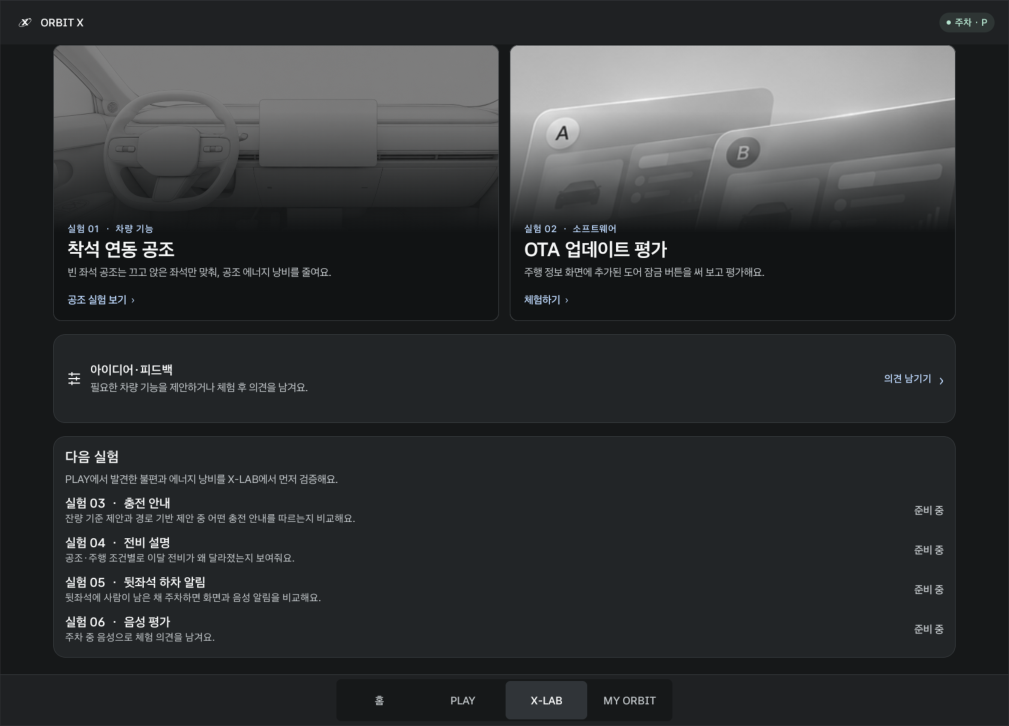
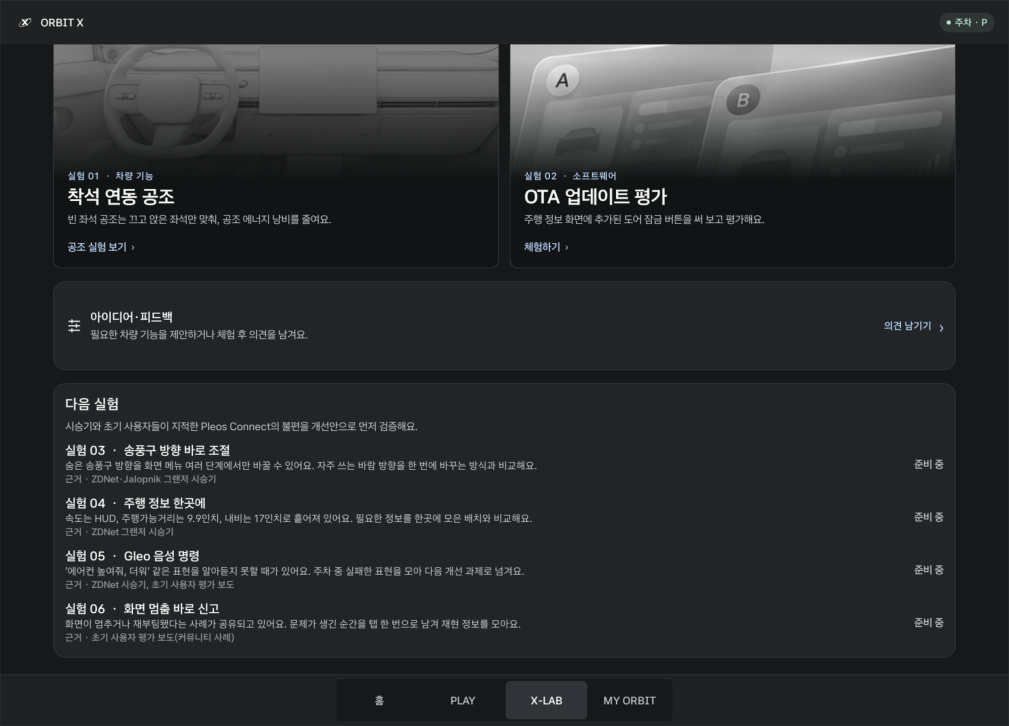
Base next experiments on reported Pleos pain points; frame README as improvement loop
- X-LAB next experiments now come from reported Pleos Connect issues
  (air vent direction, scattered driving info, Gleo voice failures,
  screen freezes), each with its source
- README leads with the find -> improve -> test -> OTA update loop and
  presents climate efficiency as the first example of it

diff --git a/app/src/main/java/com/example/orbitx/OrbitApp.kt b/app/src/main/java/com/example/orbitx/OrbitApp.kt
@@ -2144,13 +2144,22 @@ private fun LabOverview(data: OrbitData, onClimate: () -> Unit, onOta: () -> Uni
     )
     Panel {
         Text("다음 실험", style = MaterialTheme.typography.titleLarge)
-        Text("PLAY에서 발견한 불편과 에너지 낭비를 X-LAB에서 먼저 검증해요.", color = Muted)
+        Text("시승기와 초기 사용자들이 지적한 Pleos Connect의 불편을 개선안으로 먼저 검증해요.", color = Muted)
+        // Each item is a reported pain point of the current Pleos Connect (source noted), not a made-up idea.
         listOf(
-            "실험 03  ·  충전 안내" to "잔량 기준 제안과 경로 기반 제안 중 어떤 충전 안내를 따르는지 비교해요.",
-            "실험 04  ·  전비 설명" to "공조·주행 조건별로 이달 전비가 왜 달라졌는지 보여줘요.",
-            "실험 05  ·  뒷좌석 하차 알림" to "뒷좌석에 사람이 남은 채 주차하면 화면과 음성 알림을 비교해요.",
-            "실험 06  ·  음성 평가" to "주차 중 음성으로 체험 의견을 남겨요.",
-        ).forEach { (title, description) ->
+            Triple("실험 03  ·  송풍구 방향 바로 조절",
+                "숨은 송풍구 방향을 화면 메뉴 여러 단계에서만 바꿀 수 있어요. 자주 쓰는 바람 방향을 한 번에 바꾸는 방식과 비교해요.",
+                "근거 · ZDNet·Jalopnik 그랜저 시승기"),
+            Triple("실험 04  ·  주행 정보 한곳에",
+                "속도는 HUD, 주행가능거리는 9.9인치, 내비는 17인치로 흩어져 있어요. 필요한 정보를 한곳에 모은 배치와 비교해요.",
+                "근거 · ZDNet 그랜저 시승기"),
+            Triple("실험 05  ·  Gleo 음성 명령",
+                "‘에어컨 높여줘, 더워’ 같은 표현을 알아듣지 못할 때가 있어요. 주차 중 실패한 표현을 모아 다음 개선 과제로 넘겨요.",
+                "근거 · ZDNet 시승기, 초기 사용자 평가 보도"),
+            Triple("실험 06  ·  화면 멈춤 바로 신고",
+                "화면이 멈추거나 재부팅됐다는 사례가 공유되고 있어요. 문제가 생긴 순간을 탭 한 번으로 남겨 재현 정보를 모아요.",
+                "근거 · 초기 사용자 평가 보도(커뮤니티 사례)"),
+        ).forEach { (title, description, source) ->
             Row(
                 Modifier.fillMaxWidth().padding(vertical = 4.dp),
                 horizontalArrangement = Arrangement.spacedBy(14.dp),
@@ -2159,6 +2168,7 @@ private fun LabOverview(data: OrbitData, onClimate: () -> Unit, onOta: () -> Uni
                 Column(Modifier.weight(1f), verticalArrangement = Arrangement.spacedBy(3.dp)) {
                     Text(title, style = MaterialTheme.typography.titleMedium)
                     Text(description, color = Muted, style = MaterialTheme.typography.bodyMedium)
+                    Text(source, color = Muted.copy(alpha = .7f), style = MaterialTheme.typography.labelSmall)
                 }
                 Text("준비 중", color = Muted, style = MaterialTheme.typography.labelLarge)
             }

diff --git a/README.md b/README.md
@@ -2,7 +2,18 @@
 
 > **Every Drive Shapes What's Next.** 모든 주행 경험이 다음 변화를 만듭니다.
 
-**ORBIT X**는 Pleos Connect에서 운전자가 차량 기능을 써 보고, 의견과 주행 기록을 남기며 포인트를 모으는 Android Automotive 앱입니다. **PLAY는 참여를 만들고, X-LAB은 개선의 근거를 만듭니다.** 현대자동차그룹 차량용 앱 개발 공모전을 위해 만들었습니다.
+**ORBIT X**는 운전자가 차를 쓰면서 드러나는 **불편을 찾아내고, 개선안을 먼저 시험해 보고, 검증된 개선이 OTA로 돌아오게 하는** Pleos Connect 앱입니다. 운전자는 리그·드라이브·미션으로 참여하며 포인트를 받고, 현대자동차그룹은 "무엇이 불편한지, 왜 그런지, 개선이 실제로 나아졌는지"를 근거로 다음 업데이트를 결정합니다. **PLAY는 참여를 만들고, X-LAB은 개선의 근거를 만듭니다.** 현대자동차그룹 차량용 앱 개발 공모전을 위해 만들었습니다.
+
+### 핵심: 불편 발견 → 개선안 → 시험 → 업데이트
+
+| 단계 | ORBIT X에서 하는 일 | 앱의 실제 기능 |
+| --- | --- | --- |
+| 1. 발견 (PLAY) | 평소 주행에서 차량 신호와 운전자 반응으로 불편·낭비를 찾음 | 주행 효율 리그, 드라이브 리포트, 기능 미션의 미사용 이유, 빈 좌석 공조 감지 |
+| 2. 개선안 (X-LAB) | 개선 아이디어를 실제 차량 기능으로 먼저 체험 | 착석 연동 공조(실제 공조 제어), OTA 도어 잠금(실제 도어 제어) |
+| 3. 시험 | 기존 방식과 개선안을 같은 과제·같은 차종으로 비교 | A/B 비교(조작 횟수·시간·선호 이유), 사용/미사용 차량 비교, 만족도·계속 사용 의향 |
+| 4. 업데이트 | 효과와 만족이 함께 확인된 개선만 OTA로 배포하고, 배포 뒤 PLAY에서 다시 확인 | 리그·장기 미션으로 배포 후 재확인 |
+
+**공조 효율화는 이 순환의 첫 번째 사례일 뿐입니다.** 리그에서 "빈 좌석 공조가 전비를 깎는다"는 불편을 발견하고, X-LAB에서 착석 연동 공조를 시험하고, 효과가 확인되면 OTA로 배포하는 흐름을 처음부터 끝까지 보여주기 위해 골랐습니다. 같은 틀로 도어 잠금 OTA 평가, 주행 중 충전 안내를 이미 구현했고, 시승기와 초기 사용자들이 실제로 지적한 Pleos Connect의 불편(송풍구 방향 조절, 흩어진 주행 정보, Gleo 음성 명령 실패, 화면 멈춤)을 다음 실험으로 올려 두었습니다.
 
 ### 이름에 담은 뜻
 
@@ -25,7 +36,7 @@
 | --- | --- |
 | **홈** | 회전하는 차량과 시간대별 인사말을 보고, 하단 탭으로 이동합니다. 라이트·다크 표시는 Pleos에서 앱에 전달하는 시스템 테마를 따릅니다. |
 | **PLAY** | **주행 효율 리그**에서 월간 추정 전비·연비와 빈 좌석 공조 낭비를 실시간으로 보고, 같은 차종의 착석 연동 공조 사용·미사용 비교(예시)를 확인합니다. **드라이브**에서는 차량 주행가능거리로 왕복 가능 거리를 보고, 순정 내비로 안내를 시작한 뒤 도착하면 이번 드라이브의 거리·사용 에너지·전비 리포트를 받습니다. 데일리·장기 미션에도 참여합니다. |
-| **X-LAB** | 사용자 제안이나 개발팀 아이디어를 정식 배포 전에 체험하고 평가하는 공간입니다. 착석 연동 공조는 빈 좌석 공조를 꺼 에너지 낭비를 줄이는 첫 실험이고, OTA 평가에서는 **실제 차량 도어를 SDK로 잠그고 풀며** 업데이트 UX를 평가합니다. 다음 실험(충전 안내, 전비 설명, 뒷좌석 하차 알림, 음성 평가) 로드맵도 보여줍니다. |
+| **X-LAB** | 사용자 제안이나 개발팀 아이디어를 정식 배포 전에 체험하고 평가하는 공간입니다. 착석 연동 공조는 빈 좌석 공조를 꺼 에너지 낭비를 줄이는 첫 실험이고, OTA 평가에서는 **실제 차량 도어를 SDK로 잠그고 풀며** 업데이트 UX를 평가합니다. 다음 실험으로는 시승기와 초기 사용자 평가에서 지적된 Pleos Connect의 불편(송풍구 방향 바로 조절, 주행 정보 한곳에, Gleo 음성 명령 실패 표현 수집, 화면 멈춤 바로 신고)을 출처와 함께 보여줍니다. |
 | **MY ORBIT** | 참여 기록과 포인트를 확인하고, 포인트의 블루멤버스 전환(제휴 후 제공)을 안내합니다. 홈 인사말의 이름을 설정하거나 시연 기록을 초기화합니다. |
 
 ### 화면 미리보기
@@ -263,5 +274,7 @@ adb -s emulator-5554 forward tcp:8088 tcp:8088
 | Android Automotive OS | 주행 제한, 차량 모델, 지원 차량의 연료량 |
 
 도어 잠금 OTA 평가는 실제 도어를 제어하지만, 차량 소프트웨어를 설치하지는 않습니다. 시연 순위, 같은 차종 사용/미사용 비교 수치, 내비 없이 하는 모의 도착은 앱에서 재현합니다. 실차 연료량 기반 연비는 추가 검증이 필요합니다. 월간 전비 계산은 신호가 따로 도착하는 경우, 충전 구간을 빼는 경우, 신호가 끊겼다가 다시 들어오는 경우를 단위 테스트로 검증합니다.
+
+다음 실험 근거: [ZDNet 코리아 그랜저 시승기](https://zdnet.co.kr/view/?no=20260529223051) (공조·에어벤트 설정의 화면 내 다단계 조작, 정보 분산, Gleo 음성 명령 실패), [Jalopnik 그랜저 시승기](https://www.jalopnik.com/2253519/korean-market-hyundai-grandeur-first-drive-review/) (숨은 송풍구는 터치스크린으로만 조절), [초기 사용자 평가 보도](https://m.news.nate.com/view/20260913n03513) (화면 멈춤·재부팅 사례).
 
 차량별 월간 서버 순위와 사용/미사용 실측 비교, 블루멤버스 포인트 실제 전환은 향후 제안입니다. 주행 중 알림은 현재 충전 경유 제안 한 가지이며, 휴게·동승자 코스 제안과 음성(TextToSpeech) 안내는 확장 계획입니다. [Pleos Connect SDK](https://document.pleos.ai/en/api-reference/connect-sdk-pleos) · [NaviHelper](https://document.pleos.ai/api-reference/connect-sdk-pleos/NaviHelper/intro)
